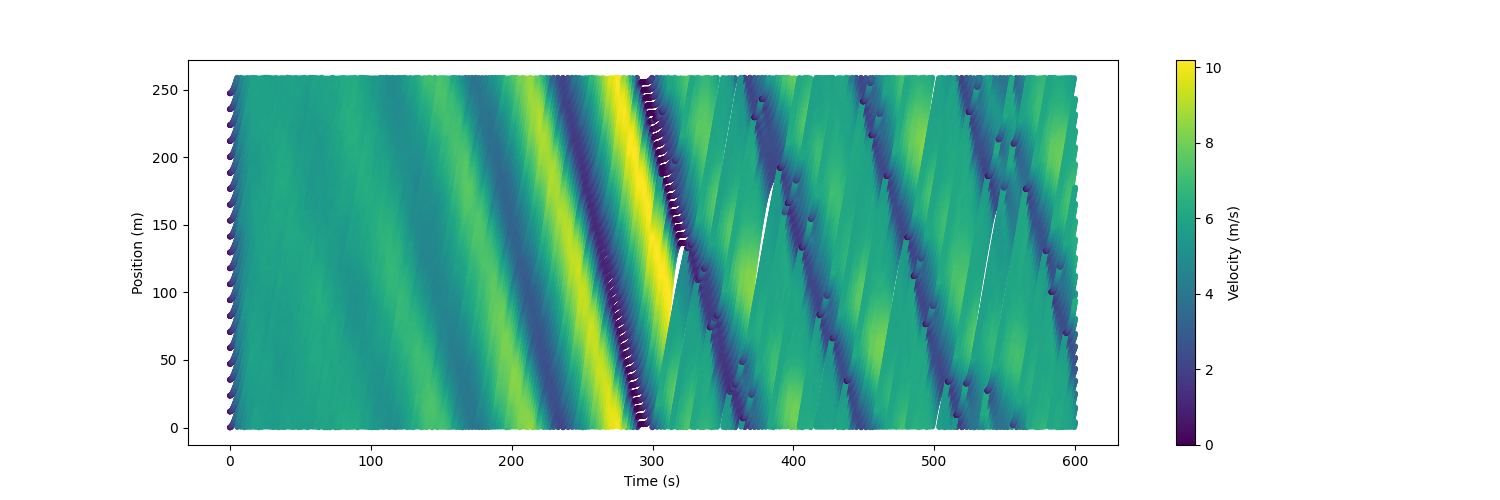
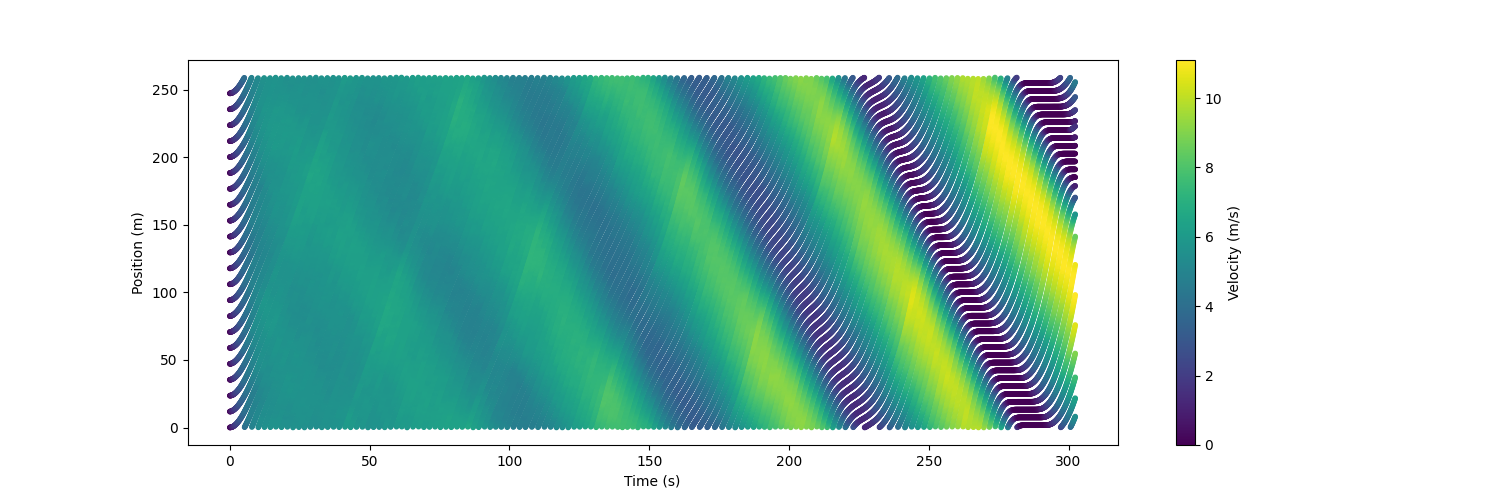
multiagent changes

diff --git a/experiment.py b/experiment.py
@@ -21,6 +21,7 @@ from Ring_Road.constants import AGENTS
 from Ring_Road.metrics import Metrics
 from scripts.centralized_critic import FillInActions, central_critic_observer
 
+
 class Experiment:
 
     def __init__(self, env_config, config):
@@ -79,7 +80,6 @@ class Experiment:
             self.agent = dqn.DQNTrainer(config=self.config)
         elif self.algorithm == "ppo":
             self.agent = ppo.PPOTrainer(config=self.config)
-
 
         self.agent.restore(path)
 
@@ -323,7 +323,7 @@ class Experiment:
 
     def eval_qmix(self, path, mixer="qmix"):
         self.config["env_config"]["eval_mode"] = True
-        self.config["env_config"]["enable_render"] = True
+        self.config["env_config"]["enable_render"] = False
         self.config["num_workers"] = 0
 
         grouping = {
@@ -371,15 +371,15 @@ class Experiment:
         self.agent.restore(path)
 
         env = self.env.with_agent_groups(
-                grouping, obs_space=obs_space, act_space=act_space
-            )
+            grouping, obs_space=obs_space, act_space=act_space
+        )
 
         # run until episode ends
         episode_reward = 0
         done = {"__all__": False}
         obs = env.reset()
 
-        state = [np.zeros((AGENTS,  config["model"]["lstm_cell_size"]), np.float32) for _ in range(2)]
+        state = [np.zeros((AGENTS, config["model"]["lstm_cell_size"]), np.float32) for _ in range(2)]
         prev_a = 0
         prev_r = 0
         met = Metrics(env.env)

diff --git a/Ring_Road/envs/multiagent_ringroad.py b/Ring_Road/envs/multiagent_ringroad.py
@@ -45,8 +45,8 @@ class MultiAgentRingRoad(MultiAgentEnv):
         self.crashed_state = None
         self.state_extractor = StateExtractor(self)
 
-        # if self.enable_render:
-        self.viewer = Render(self.agents, self.env_veh)
+        if self.enable_render:
+            self.viewer = Render(self.agents, self.env_veh)
         self.collision = False
         np.random.seed(42)
 
@@ -210,11 +210,9 @@ class MultiAgentRingRoad(MultiAgentEnv):
         if self.eval_mode:
             self._initialize_state()
         else:
-            env_vehicles = np.random.randint(15, AGENTS + ENV_VEHICLES + 2)
+            env_vehicles = ENV_VEHICLES
             self._initialize_state(env_vehicles)
             self._warmup_steps()
-
-
         self.state = self.state_extractor.neighbour_states()
         return self.state
 

diff --git a/scripts/multiagent_train_ppo.py b/scripts/multiagent_train_ppo.py
@@ -4,7 +4,7 @@ from Ring_Road.constants import MAX_EPISODE_LENGTH, WARMUP_STEPS
 from experiment import Experiment
 
 env_config = {
-    "enable_render": True,
+    "enable_render": False,
     "agent_type": "continuous",
     "eval_mode": True,
     "algorithm": "vdn",
@@ -30,9 +30,9 @@ config["num_workers"] = 8
 config["lr"] = 1e-6
 config["horizon"] = MAX_EPISODE_LENGTH
 config["model"]["fcnet_hiddens"] = [512, 512, 512]
-# config["model"]["use_lstm"] = True
-# config["model"]["lstm_cell_size"] = 256
-# config["clip_actions"] = True
+config["model"]["use_lstm"] = True
+config["model"]["lstm_cell_size"] = 256
+config["clip_actions"] = True
 config["evaluation_interval"] = 2
 config["evaluation_duration"] = 20
 config["framework"] = "torch"

diff --git a/Ring_Road/vehicle/vehicle.py b/Ring_Road/vehicle/vehicle.py
@@ -185,6 +185,7 @@ class Agent(Car):
                 self.agent_type = "idm"
 
         accel_action = self._run_control(avg_vel)
+        print(accel_action)
         accel_action = state_extractor.failsafe_action(accel_action, self.front_vehicle, self)
         self._update_vel(accel_action)
         self.update_positions()

diff --git a/Ring_Road/vehicle/state.py b/Ring_Road/vehicle/state.py
@@ -8,7 +8,7 @@ from Ring_Road.constants import RADIUS, CAR_LENGTH, RADIUS, AGENT_MAX_VELOCITY, 
 class StateExtractor:
     def __init__(self, env):
         self.env = env
-        self.delay = 0.5
+        self.delay = 0.9
 
     def gap_front(self, veh):
         if veh.front_vehicle.central_angle - veh.central_angle < 0:
